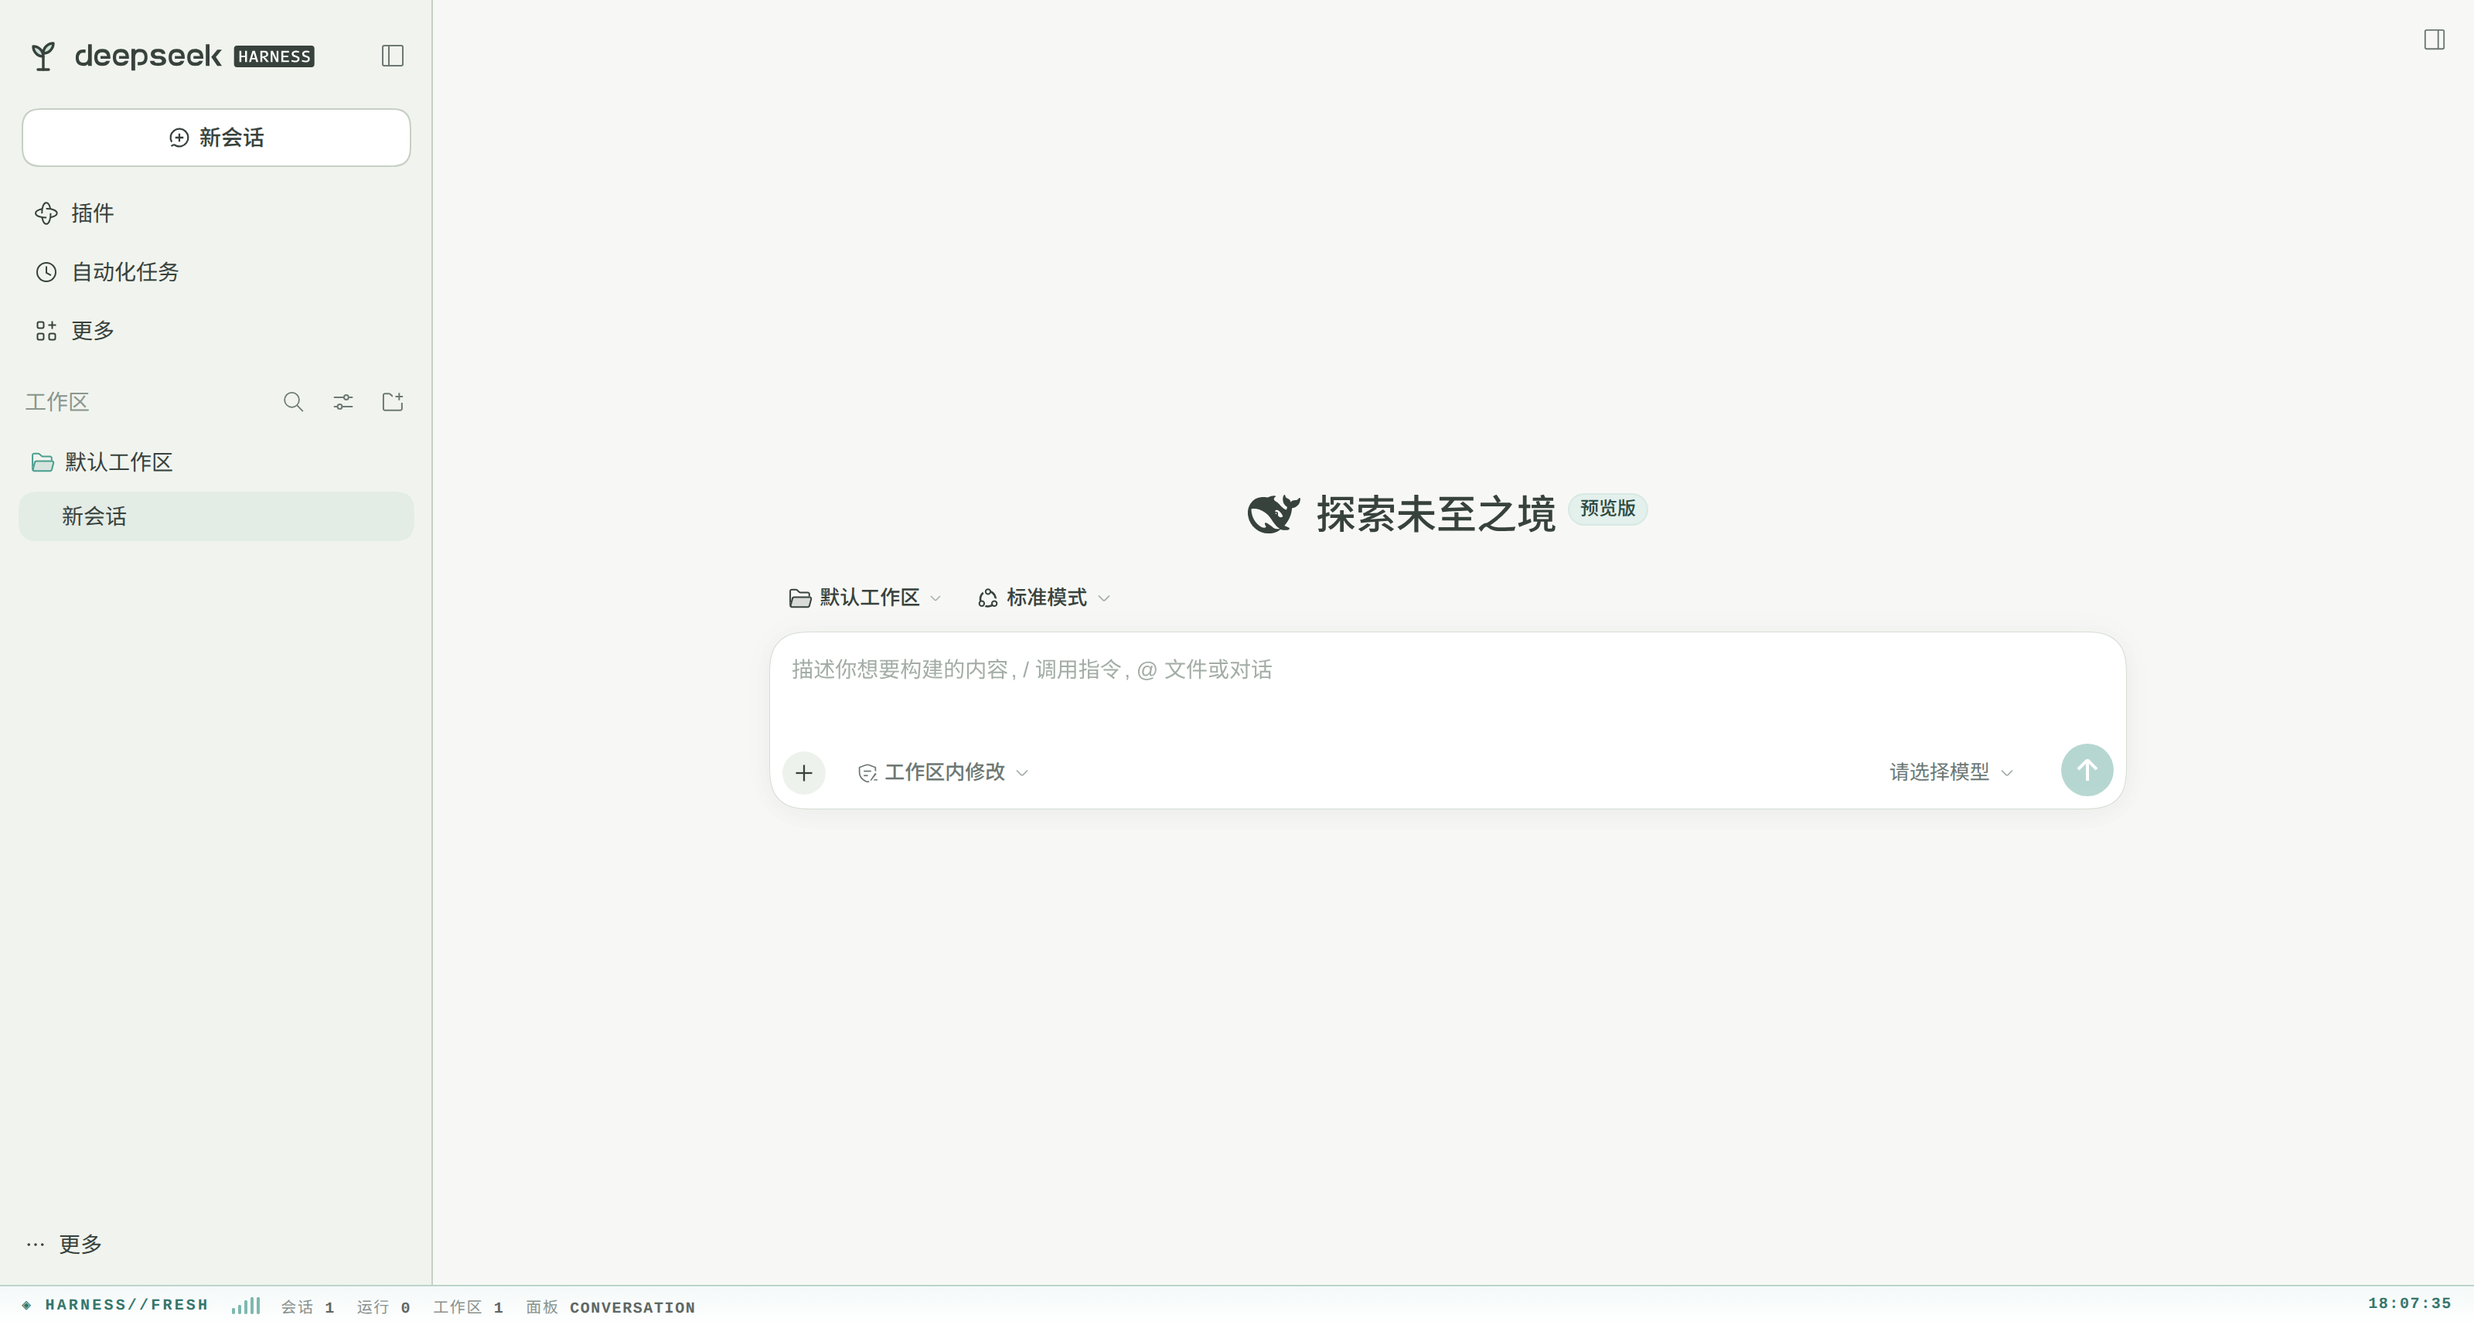
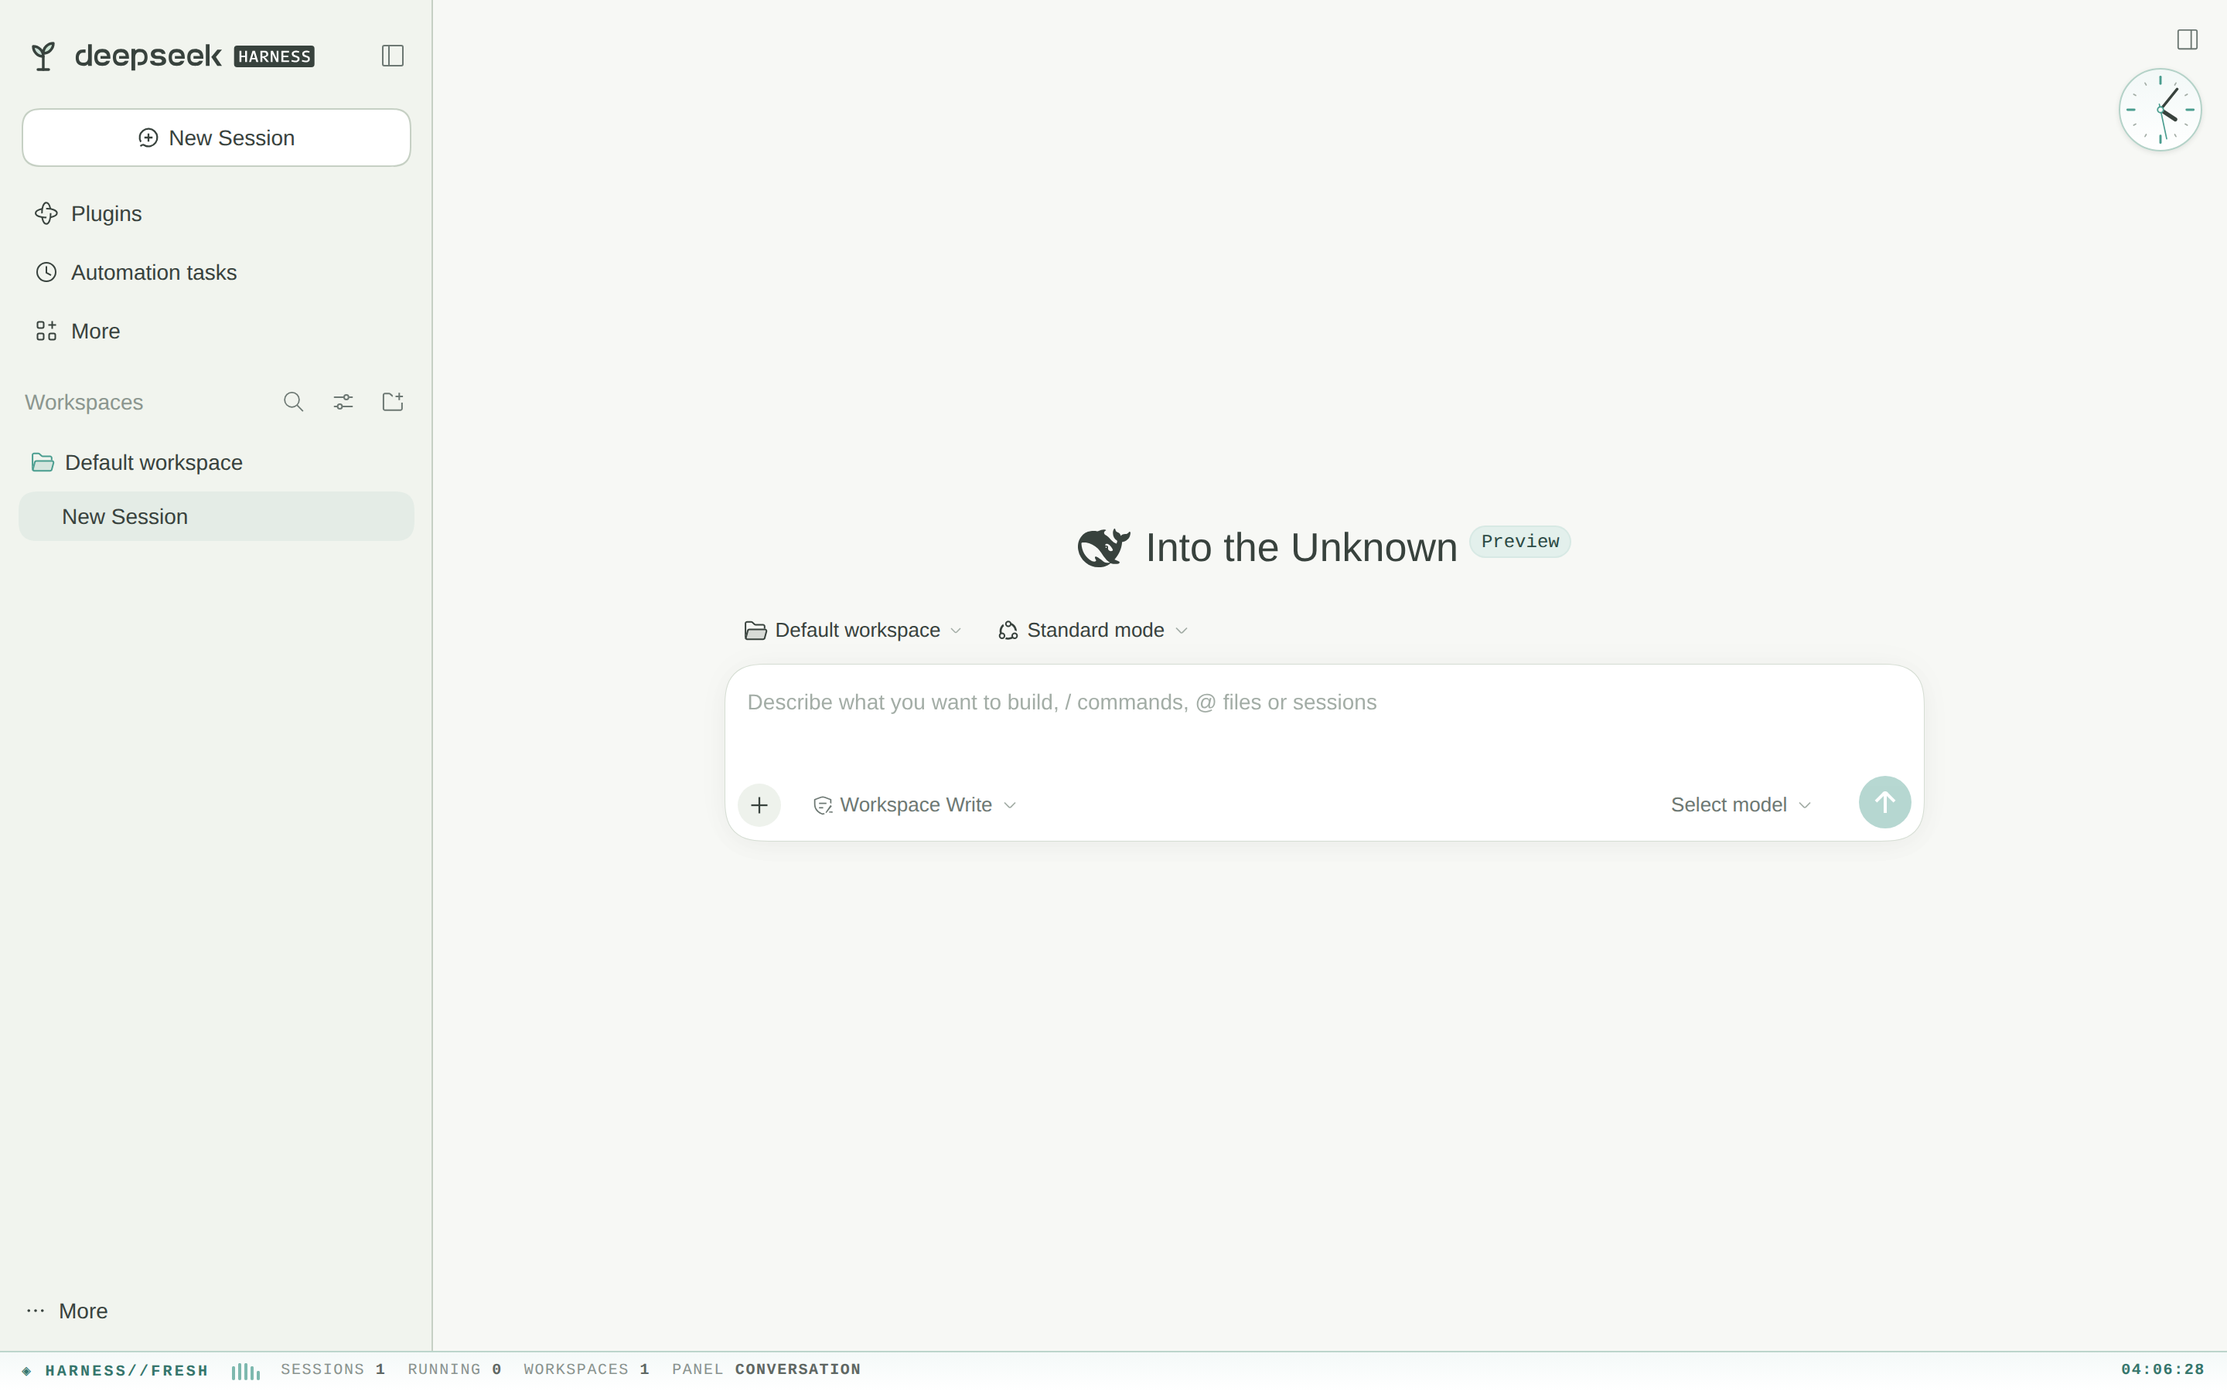
feat: 页面右上角圆时钟（shell.overlay 浮层）
按 issue #1 的要求，在页面右上角加一个 54px 的圆时钟：

- RoundClock 组件挂在 additive 的 shell.overlay 槽上，浮层本身
  pointer-events:none，时钟也显式不接收指针事件，右上角的
  「展开右栏」按钮照常可点
- 表盘用 SVG 绘制：12 个刻度（12/3/6/9 四个整点为品牌色）、
  时针/分针/秒针三根指针加中心轴帽；秒针每秒硬跳（石英感），
  分时针在跳变之间爬行；指针绕表盘中心旋转，354° 与 0° 画出
  同一条线，整分换圈无需特殊处理
- 配色全部走 --dsw-alias-* token，浅色/深色/清爽护眼三档下都
  自动适配；corner-shape:round 保证在框架的 squircle 默认角
  形状下仍是正圆
- 文档同步：README 功能/架构/槽位表/数据链路/已知限制/FAQ/
  二次开发表、locale 元信息、package.json description 与
  keywords，并更新主界面截图（含圆时钟）
- assets/ 增加 before/after 对比图（浅色与深色两套），供 PR
  说明引用

diff --git a/client.js b/client.js
@@ -1,12 +1,13 @@
 /**
  * Nebula Dashboard — a Harness Web UI plugin.
  *
- * Contributes three additive surfaces under a fresh, eye-comfortable skin:
+ * Contributes four additive surfaces under a fresh, eye-comfortable skin:
  *  - a warm-paper token layer applied through `theme.overrideTokens`, so the
  *    skin reskins the whole app and survives restarts and refreshes (the
  *    framework only persists light/dark/system, so a registered third-party
  *    theme never could);
  *  - a global status bar (`shell.bottom`) with live session/workspace counts;
+ *  - a round clock pinned to the frame's top-right corner (`shell.overlay`);
  *  - a skin switcher settings row (`settings.general.item`) and a sprout brand
  *    mark (`sidebar.brand.mark`).
  *
@@ -414,6 +415,47 @@ window.__ModuleLoader__.load({
       );
     }
 
+    /** Twelve hour ticks; the quarter marks (12/3/6/9) carry the brand accent. */
+    const CLOCK_TICKS = Array.from({ length: 12 }, (_, index) => {
+      const major = index % 3 === 0;
+      return { major, angle: index * 30, y1: major ? 9 : 11.5, y2: major ? 17.5 : 14.5 };
+    });
+
+    /**
+     * Round analog clock pinned to the frame's top-right corner. It rides the
+     * click-through `shell.overlay` layer, so it floats above every column and
+     * never swallows a click — the corner toggle underneath stays reachable.
+     * Every hand rotates about the dial centre, so a hand at 354° and at 0°
+     * draws the same line: the per-minute wrap needs no special case. The
+     * second hand hard-ticks once per second (quartz feel, same cadence as the
+     * status-bar clock), while minute and hour hands creep between ticks.
+     * Decorative by design — the status bar keeps the readable digital time.
+     */
+    function RoundClock() {
+      const now = useNow(1000);
+      const date = new Date(now);
+      const seconds = date.getSeconds();
+      const minutes = date.getMinutes() + seconds / 60;
+      const hours = (date.getHours() % 12) + minutes / 60;
+      return h('div', { className: 'dsh-clock', 'aria-hidden': true },
+        h('style', null, SKIN_CSS),
+        h('div', { className: 'dsh-clock-face' },
+          h('svg', { className: 'dsh-clock-svg', viewBox: '0 0 100 100' },
+            CLOCK_TICKS.map((tick) => h('line', {
+              key: tick.angle,
+              x1: 50, y1: tick.y1, x2: 50, y2: tick.y2,
+              transform: `rotate(${tick.angle} 50 50)`,
+              className: 'dsh-clock-tick' + (tick.major ? ' is-major' : ''),
+            })),
+            h('line', { key: 'hour', className: 'dsh-clock-hand dsh-clock-hour', x1: 50, y1: 50, x2: 50, y2: 28, transform: `rotate(${hours * 30} 50 50)` }),
+            h('line', { key: 'minute', className: 'dsh-clock-hand dsh-clock-minute', x1: 50, y1: 50, x2: 50, y2: 17, transform: `rotate(${minutes * 6} 50 50)` }),
+            h('line', { key: 'second', className: 'dsh-clock-hand dsh-clock-second', x1: 50, y1: 57, x2: 50, y2: 13, transform: `rotate(${seconds * 6} 50 50)` }),
+            h('circle', { key: 'pin', className: 'dsh-clock-pin', cx: 50, cy: 50, r: 3.6 }),
+          ),
+        ),
+      );
+    }
+
     /* ------------------------------------------------------------------ *
      * Styles (rendered as a React element so unmount removes them)
      * ------------------------------------------------------------------ */
@@ -435,6 +477,16 @@ window.__ModuleLoader__.load({
       '.dsh-bar-item.is-live b{color:var(--dsw-alias-state-success-primary)}',
       '.dsh-bar-fill{flex:1;min-width:8px}',
       '.dsh-bar-clock{flex:none;font-weight:700;font-variant-numeric:tabular-nums;color:var(--dsw-alias-brand-text)}',
+      /* round corner clock: floats above every column, click-through */
+      '.dsh-clock{position:absolute;top:44px;right:16px;z-index:1;pointer-events:none}',
+      '.dsh-clock-face{box-sizing:border-box;width:54px;height:54px;border-radius:50%;corner-shape:round;background:linear-gradient(180deg,color-mix(in srgb,var(--dsw-alias-brand-primary) 7%,var(--dsw-alias-bg-layer-1)),var(--dsw-alias-bg-layer-1));border:1px solid color-mix(in srgb,var(--dsw-alias-brand-primary) 30%,var(--dsw-alias-border-l1));box-shadow:0 1px 3px color-mix(in srgb,var(--dsw-alias-label-primary) 12%,transparent)}',
+      '.dsh-clock-svg{display:block;width:100%;height:100%}',
+      '.dsh-clock-tick{stroke:var(--dsw-alias-label-caption);stroke-width:1.6;stroke-linecap:round}',
+      '.dsh-clock-tick.is-major{stroke:var(--dsw-alias-brand-primary);stroke-width:2.8}',
+      '.dsh-clock-hand{stroke:var(--dsw-alias-label-primary);stroke-width:3.4;stroke-linecap:round}',
+      '.dsh-clock-hand.dsh-clock-hour{stroke-width:5}',
+      '.dsh-clock-second{stroke:var(--dsw-alias-brand-primary);stroke-width:1.6}',
+      '.dsh-clock-pin{fill:var(--dsw-alias-bg-layer-1);stroke:var(--dsw-alias-brand-primary);stroke-width:1.8}',
       /* settings row */
       '.dsh-set-row{width:100%;align-items:center;gap:8px;padding:16px 0;display:flex;border-bottom:.5px solid var(--dsw-alias-border-l2)}',
       '.dsh-set-text{flex-direction:column;flex:1;min-width:0;gap:4px;display:flex;padding-right:48px}',
@@ -518,6 +570,13 @@ window.__ModuleLoader__.load({
             t,
           }),
         }, GlobalStatusBar));
+        /* Round corner clock: the additive `shell.overlay` seat. The layer is
+         * click-through and the clock opts back out of pointer events, so the
+         * corner toggle underneath stays reachable. */
+        ctx.slots.inject('shell.overlay', () => ctx.slots.register({
+          name: 'shell.overlay',
+          id: 'dashboard.round-clock',
+        }, RoundClock));
         ctx.slots.inject('settings.general.item', () => ctx.slots.register({
           name: 'settings.general.item',
           id: 'dashboard-skin',

diff --git a/README.md b/README.md
@@ -1,10 +1,10 @@
 # dsh-dashboard · 清爽护眼皮肤与状态栏
 
-[DSH (DeepSeek Harness)](https://www.npmjs.com/package/@deepseek-ai/dsh) Web 端的一套暖纸护眼皮肤，外加一条底部全局状态栏和侧栏的嫩芽标记。
+[DSH (DeepSeek Harness)](https://www.npmjs.com/package/@deepseek-ai/dsh) Web 端的一套暖纸护眼皮肤，外加一条底部全局状态栏、一个右上角圆时钟和侧栏的嫩芽标记。
 
 皮肤不是「注册一个第三方主题」，而是用 `theme.overrideTokens` 打一层 token 覆盖：框架只持久化浅色/深色/跟随系统，第三方主题注册后重启就没了，覆盖层则由插件在每次激活时重新贴上去。所以切换过一次「清爽护眼」之后，刷新、重启都还在。
 
-| 主界面：暖纸底色 + 底部状态栏 | 设置 → 通用 → 界面皮肤 |
+| 主界面：暖纸底色 + 底部状态栏 + 右上角圆时钟 | 设置 → 通用 → 界面皮肤 |
 |:---:|:---:|
 | ![主界面](assets/screenshot-home.png) | ![皮肤切换](assets/screenshot-skin.png) |
 
@@ -12,6 +12,7 @@
 
 - **全局换肤**：约一百四十个 `--dsw-alias-*` / `--dsw-specific-*` / shiki token 整体换成暖纸配色，覆盖底色、边框、品牌色、状态色、按钮、滚动条、菜单、侧栏、输入框、气泡、Markdown 代码块、diff 与语法高亮，圆角也一并放大
 - **底部状态栏**：26px 高的单行遥测条——`◈ HARNESS//FRESH` 品牌、跳动的均衡器、会话数、运行中会话数（>0 时变绿）、工作区数、当前中央面板、每秒刷新的时钟
+- **右上角圆时钟**：54px 的圆形模拟时钟，挂在 `shell.overlay` 浮层上——12 个刻度（四个整点为品牌色）、时针/分针/秒针三根指针，秒针每秒一跳；浮层本身点击穿透，时钟也不接收指针事件，不会挡住右上角的按钮
 - **侧栏嫩芽**：把侧栏左上角的品牌标记换成手绘嫩芽 SVG，尺寸跟随侧栏
 - **三档切换**：设置 → 通用 → 界面皮肤里选 浅色 / 深色 / 清爽护眼，选择写进 `localStorage`，下次自动恢复
 - **双语**：文案跟随 DSH 的语言设置（中文 / English）
@@ -20,7 +21,7 @@
 
 | 项 | 要求 |
 | --- | --- |
-| DSH | ≥ `0.2.1-rc.2`（需要 `shell.bottom`、`sidebar.brand.mark`、`settings.general.item` 三个槽位；`package.json` 里 `engines.dsh` 已声明） |
+| DSH | ≥ `0.2.1-rc.2`（需要 `shell.bottom`、`shell.overlay`、`sidebar.brand.mark`、`settings.general.item` 四个槽位；`package.json` 里 `engines.dsh` 已声明） |
 | 浏览器 | 桌面版 Chrome / Firefox / Safari 等现代浏览器（用了 `color-mix()` 与 `backdrop` 类 token） |
 | 网络 | 只有安装时需要；运行时不发任何请求 |
 | 构建 | 不需要。没有运行时依赖、没有构建步骤 |
@@ -75,7 +76,7 @@ dsh --profile web --dump-config | grep -A3 "id: dashboard"
 
 ```
 index.js            Host 半边：空 apply（纯前端插件，不注册工具/路由）
-client.js           全部逻辑：token 覆盖层、底部状态栏、皮肤切换行、嫩芽品牌标记
+client.js           全部逻辑：token 覆盖层、底部状态栏、右上角圆时钟、皮肤切换行、嫩芽品牌标记
 cordis.patch.yml    插入 dashboard 这一层（无 config）
 locale/{zh,en}.json 插件管理页里的标题与描述
 icon.svg            插件管理页图标（侧栏标记是 client.js 里的内联 SVG）
@@ -87,6 +88,7 @@ assets/             截图
 | 槽位 | 优先级 | 内容 |
 | --- | --- | --- |
 | `shell.bottom` | `-10` | 全局状态栏（单值槽，负优先级盖过默认实现） |
+| `shell.overlay` | 默认 | 右上角圆时钟（列表槽，追加不替换；浮层点击穿透，时钟 `pointer-events:none`） |
 | `sidebar.brand.mark` | `-10` | 嫩芽 SVG，`size` 由侧栏传入 |
 | `settings.general.item` | `order: 30` | 「界面皮肤」三档切换行 |
 
@@ -96,7 +98,8 @@ assets/             截图
 2. `FRESH_LAYER` 是 `{ token: { light, dark } }` 的形状——框架要求两种模式都给值，这里两套填同一个值，于是皮肤在浅色/深色偏好下都保持暖纸感
 3. 状态栏订阅 `ctx.sessions.list` 与 `ctx.workspaces.list` 的快照：会话数只算 `updatedAt` 非零的行（subagent 目录项是 0，被排除），运行数是 `running` 为真的行数，面板 id 来自 `layout.panelInfo`
 4. 时钟用 1 秒定时器，卸载时清掉；样式全部走 `--dsw-alias-*` 变量，所以换肤后状态栏自己也会跟着变色
-5. 切换行调用 `onSkin()`：存 `localStorage` → 贴层或摘层 → 摘层时用 `ctx.theme.setTheme()` 写入框架偏好
+5. 圆时钟挂在 `shell.overlay` 上，同样 1 秒定时器；秒针硬跳（石英感），分时针在两次跳动之间缓慢爬行；所有指针绕表盘中心旋转，354° 与 0° 画出同一条线，整分换圈无需特殊处理
+6. 切换行调用 `onSkin()`：存 `localStorage` → 贴层或摘层 → 摘层时用 `ctx.theme.setTheme()` 写入框架偏好
 
 ## 安全与隐私
 
@@ -113,6 +116,8 @@ assets/             截图
 - **只覆盖已知 token**：框架后续新增的 `--dsw-*` 变量不在表里时，会沿用默认配色，可能出现个别控件「不是暖纸色」
 - **品牌文字硬编码**：状态栏的 `◈ HARNESS//FRESH` 不随语言切换
 - **状态栏固定 26px**：内容单行不换行，窗口很窄时中段会被裁掉
+- **圆时钟是装饰件**：只显示表盘与指针，没有数字读数；精确时间看底部状态栏，且它对读屏器隐藏（`aria-hidden`）
+- **圆时钟浮在右栏之上**：右侧面板展开时，时钟会压在面板内容的右上角；因为它 `pointer-events:none`，点击会穿透到下面的按钮，但视觉上会有遮挡
 - **面板 id 直接显示**：状态栏里的 `CONVERSATION` 之类是槽位 id 大写后的结果，不是本地化名称
 - **仅 web 平台**：这些槽位只存在于 web 客户端
 
@@ -122,6 +127,7 @@ assets/             截图
 | --- | --- |
 | 刷新后皮肤没了 | 看设置里是不是被切到了「浅色/深色」；`localStorage['dsh-dashboard:skin']` 为 `plain` 时不会贴层 |
 | 底部没有状态栏 | 确认已重启 `dsh web`；`shell.bottom` 槽旧版本没有，检查 DSH 版本 |
+| 右上角没有圆时钟 | 同上，圆时钟走 `shell.overlay` 槽，旧版本 DSH 没有这个槽；确认插件已重启加载 |
 | 侧栏图标还是原来的 | 别的插件用了更低的 `priority` 抢同一个单值槽；`primary` 低者胜，改自己的 `priority` 即可 |
 | 个别控件颜色不对 | 上游新增了未覆盖的 token，往 `FRESH_TOKENS` 里补一条 |
 | 想要更冷的白/更暖的白 | 改 `--dsw-alias-bg-base` 与 `bg-layer-1..3` 四个值就够了 |
@@ -153,6 +159,7 @@ dsh plugin --profile web remove @local/dsh-dashboard
 | 整套配色 | `client.js` 里的 `FRESH_TOKENS` |
 | 圆角、焦点环 | `FRESH_TOKENS` 末尾的 `--dsw-radius-*` 与 `--dsw-focus-ring-color` |
 | 状态栏内容与样式 | `GlobalStatusBar` 与 `SKIN_CSS` 里的 `.dsh-bar*` |
+| 圆时钟的外观与位置 | `RoundClock` 组件、`CLOCK_TICKS` 与 `SKIN_CSS` 里的 `.dsh-clock*`（位置在 `.dsh-clock` 的 `top`/`right`，尺寸在 `.dsh-clock-face` 的 `width`/`height`） |
 | 状态栏高度 | `SKIN_CSS` 的 `.dsh-bar{height:26px}` |
 | 侧栏图标 | `FreshBrandMark` 的 SVG 路径 |
 | 皮肤在语言里的名字 | `locale/{zh,en}.json` 与 `client.js` 内的 `zh` / `en` 字典（两处要一致） |
